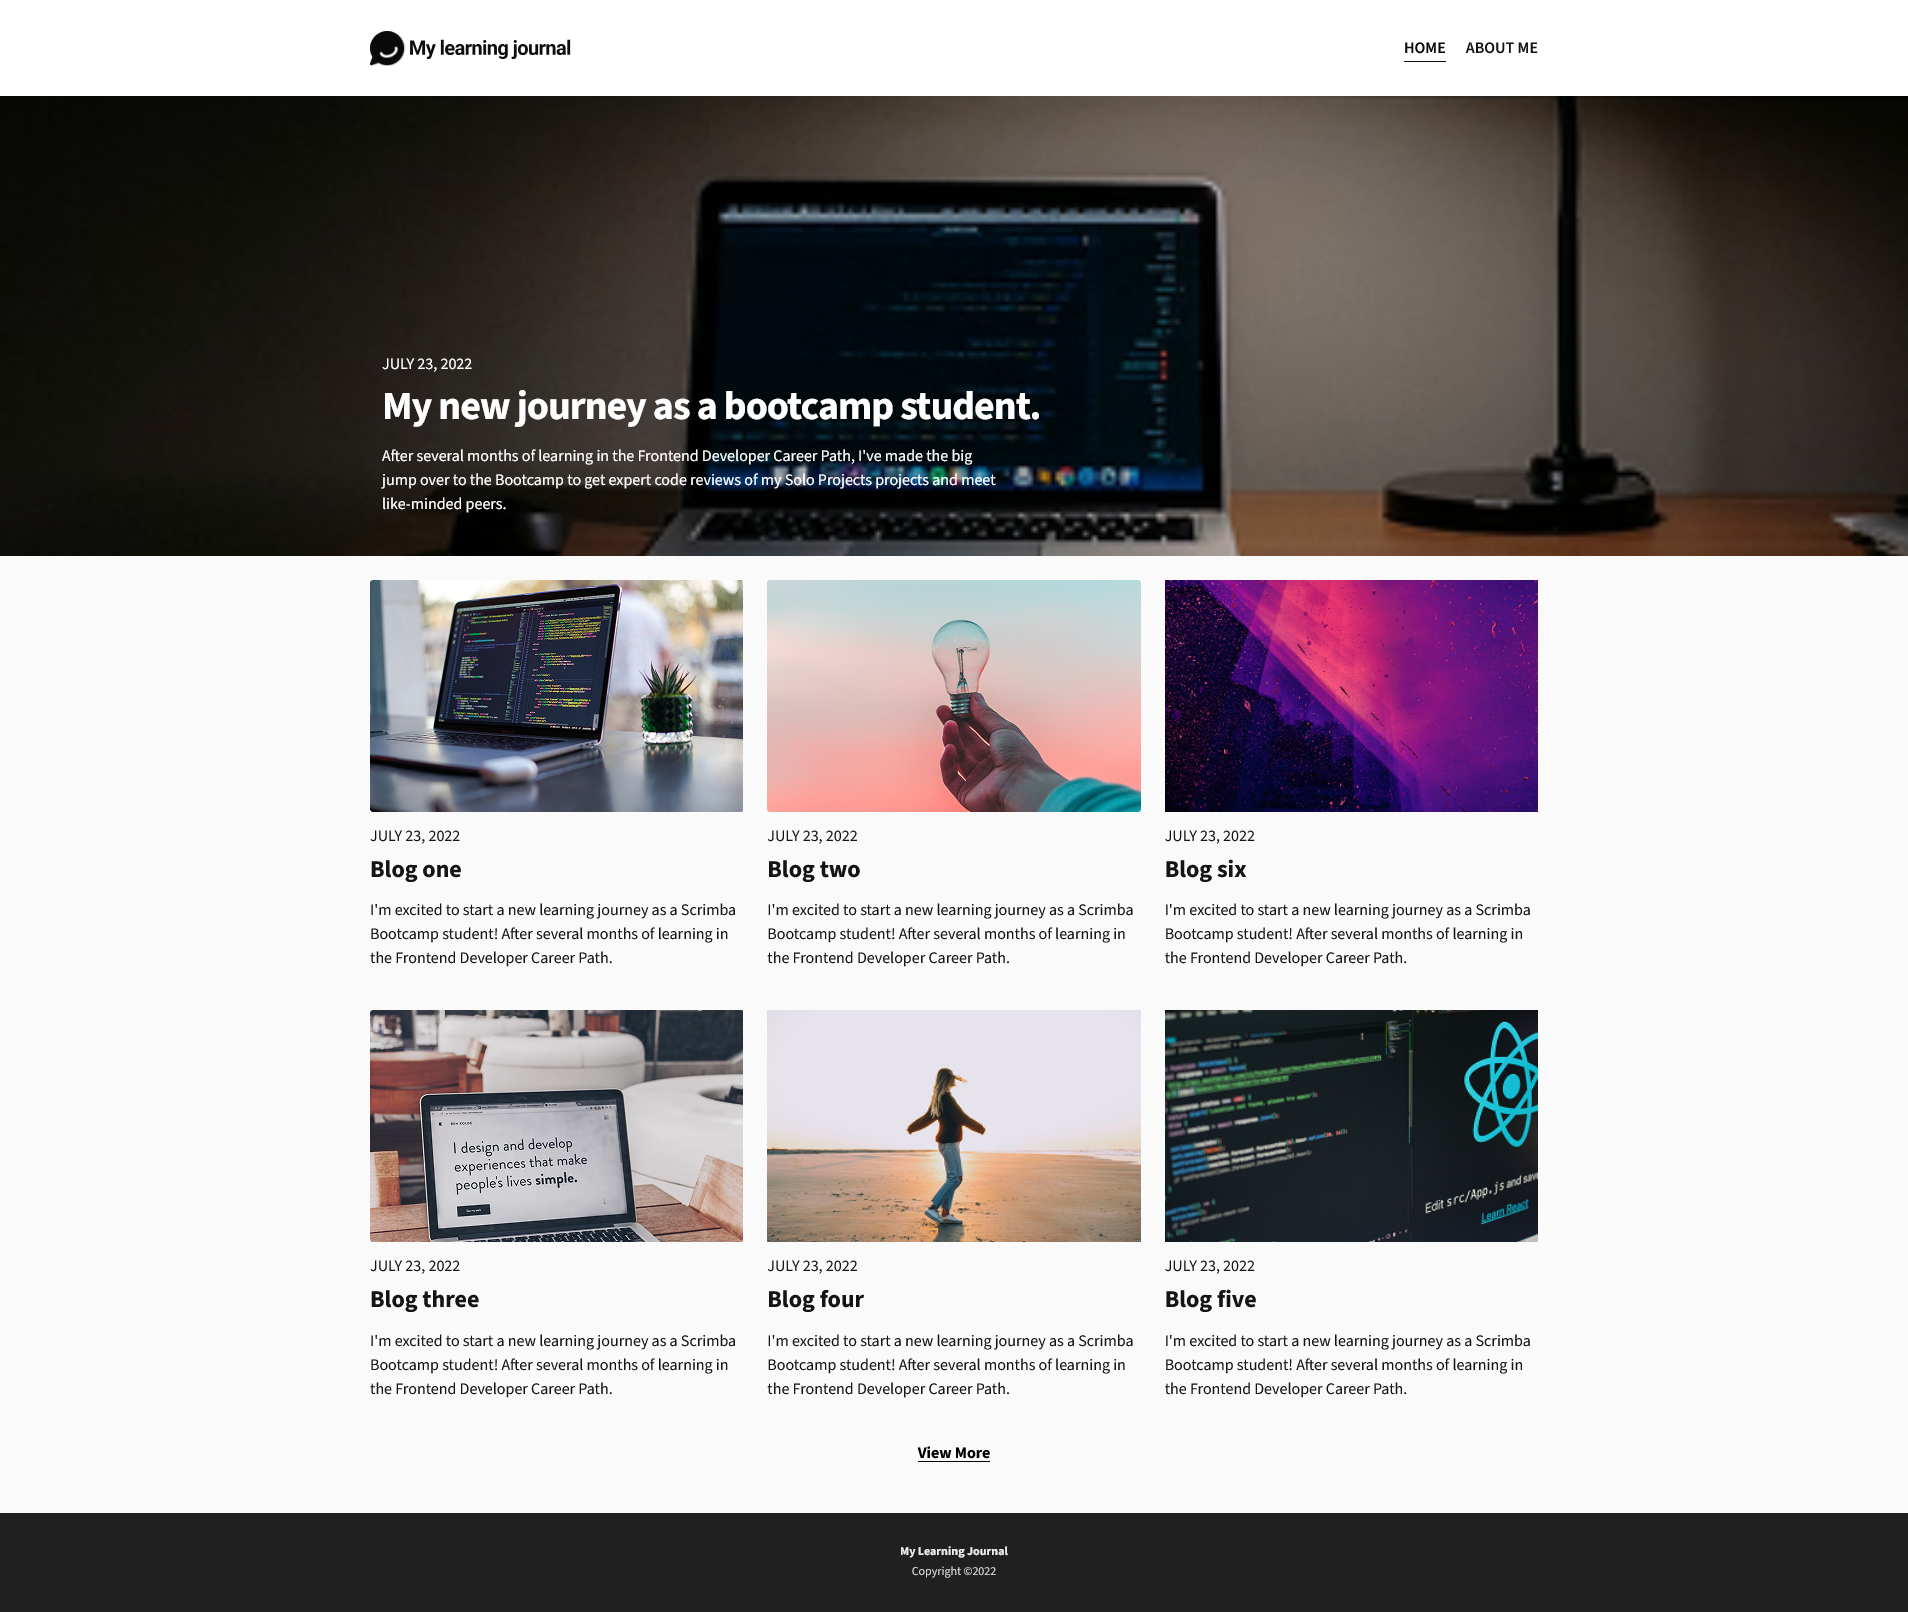
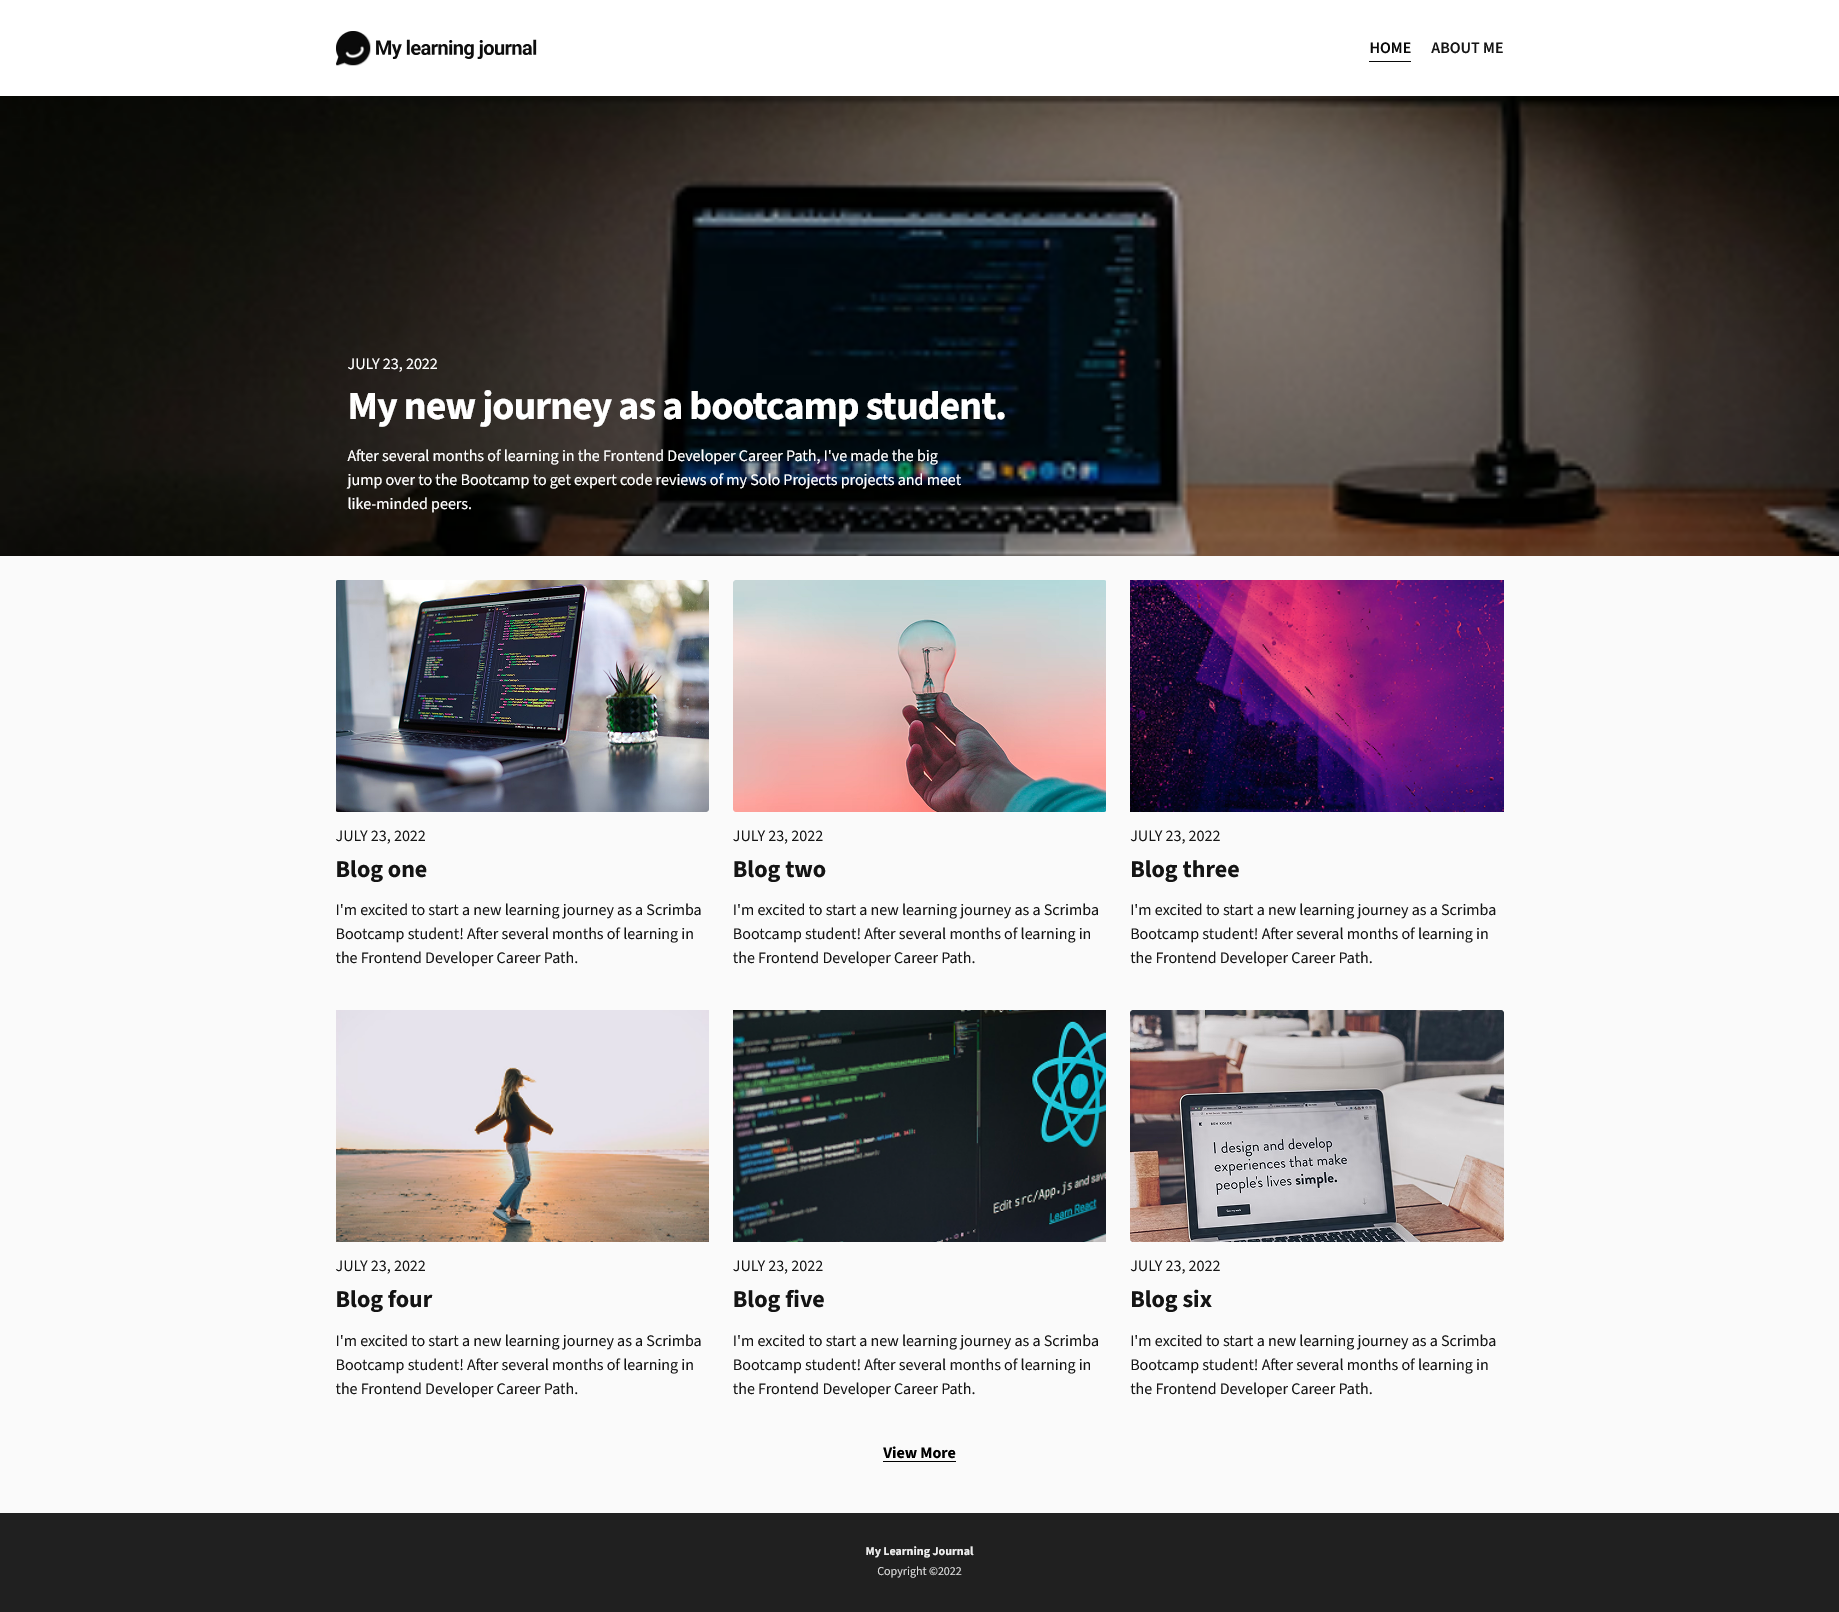
Solved: Home page blog section grid issue

diff --git a/css/style.css b/css/style.css
@@ -116,6 +116,7 @@ h3 {
   text-decoration: underline;
   text-underline-offset: 0.5rem;
 }
+
 .mobile-only {
   display: none;
 }
@@ -171,6 +172,7 @@ header {
   .article {
     padding: 16rem 0 var(--spacing-6) var(--spacing-6);
   }
+
   .article h1 {
     max-width: 700px;
   }
@@ -229,6 +231,14 @@ span {
   }
   .blog-article:nth-child(6) {
     grid-area: a6;
+  }
+
+  .mobile-only {
+    display: block;
+  }
+
+  .desktop-only {
+    display: none;
   }
 }
 
